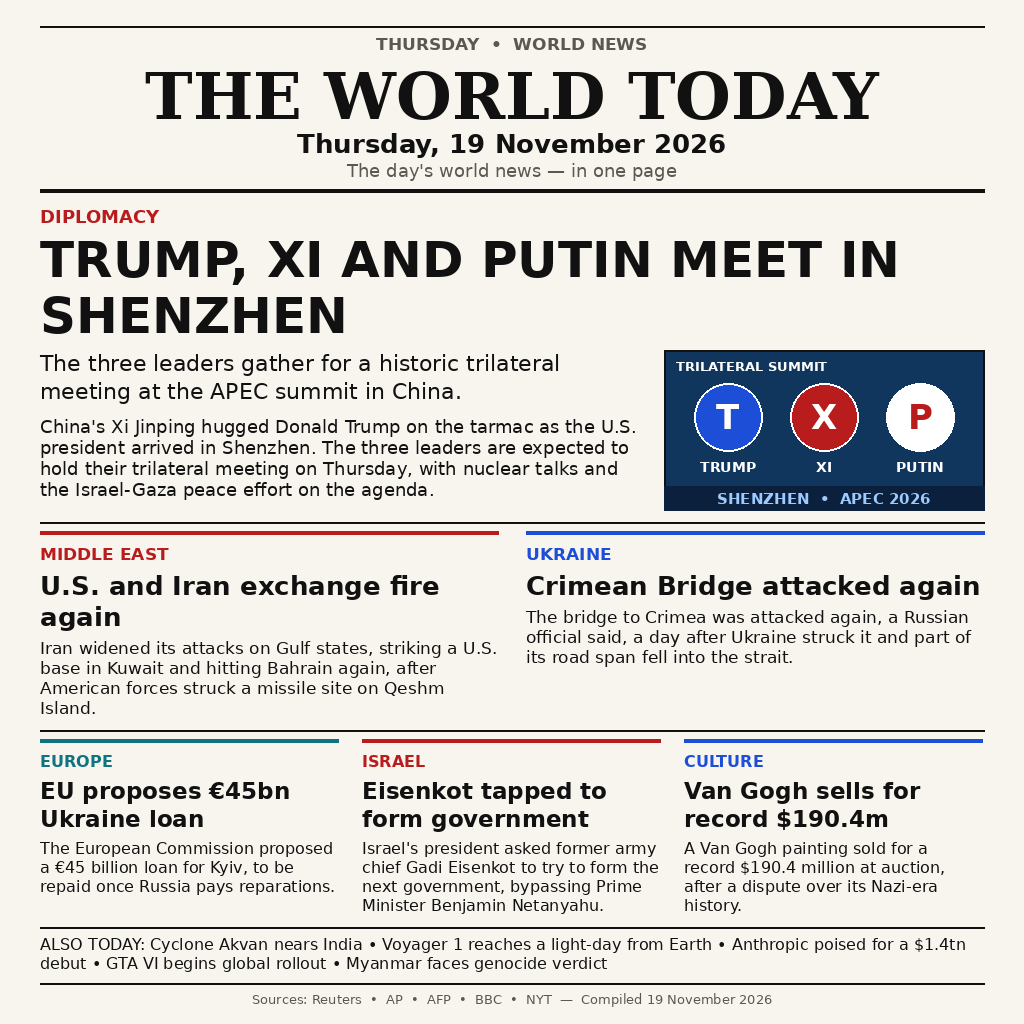
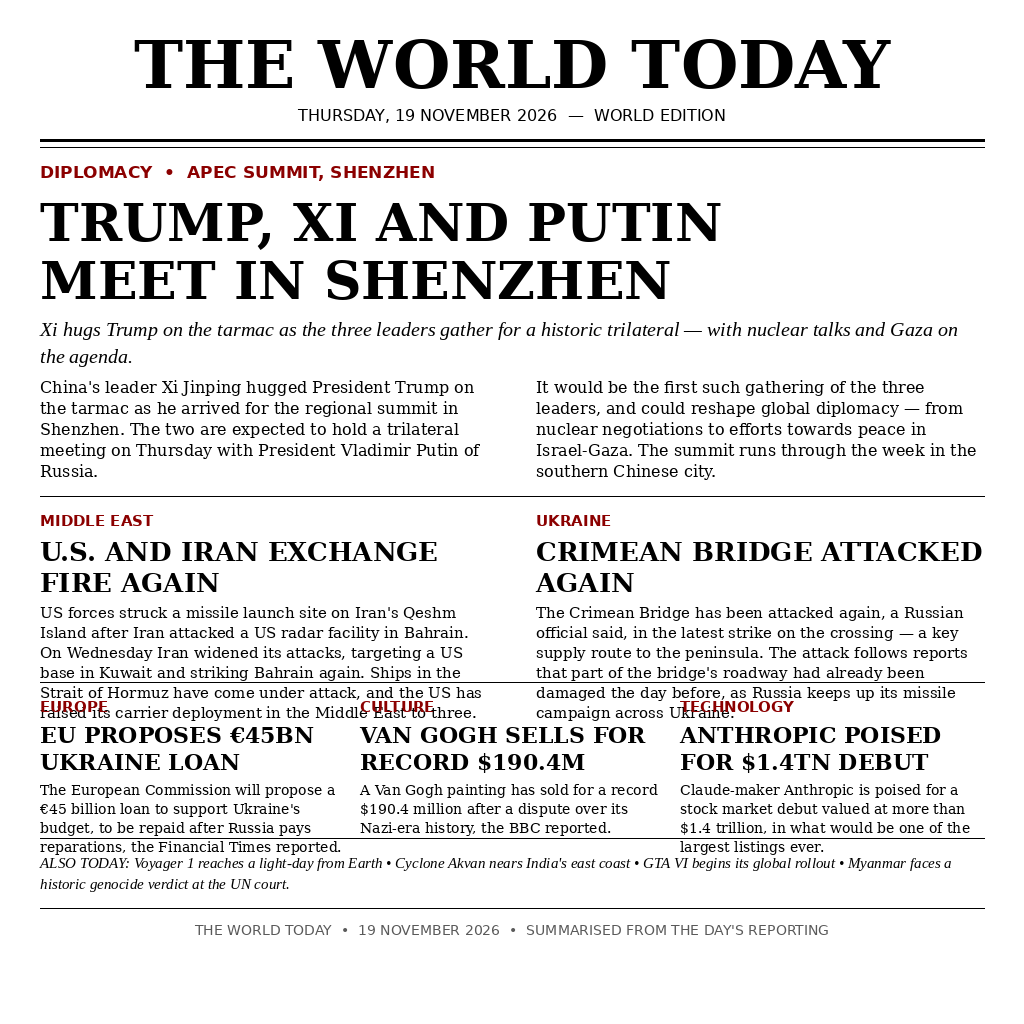
news-image-20261119 entry v2 (rebuild)

Changed region(s): [[0.0312, 0.0312, 0.9688, 1.0]]

diff --git a/main.py b/main.py
@@ -1,26 +1,50 @@
 #!/usr/bin/env python3
-"""news-image-20261119 entry: copy the front-page image to the output dir.
+"""Front-page runner for the 19 November 2026 news-image entry.
 
-The program runs with no network in a sandbox. It copies entry.png (the
-front page for Thursday 19 November 2026, drawn from the day's reported
-news) to /output/entry.png, writing the same bytes on every run.
-The output directory comes from MAKEFUN_OUTPUT_DIR, defaulting to /output.
+The newspaper front page is already drawn in entry.png next to this file.
+All this program does is place an exact copy of that image into the output
+directory the harness provides, so the judge sees the same front page on
+every run. No network, no clock, no randomness: the bytes out are always
+the bytes in.
 """
+
 import os
-import shutil
-from pathlib import Path
+import sys
 
-HERE = Path(__file__).resolve().parent
-OUT = Path(os.environ.get("MAKEFUN_OUTPUT_DIR", "/output"))
+FRONT_PAGE = "entry.png"
 
 
-def main():
-    src = HERE / "entry.png"
-    if not src.is_file():
-        raise SystemExit("entry.png missing")
-    OUT.mkdir(parents=True, exist_ok=True)
-    shutil.copyfile(src, OUT / "entry.png")
+def locate_source():
+    """Absolute path of the front-page image shipped with this entry."""
+    here = os.path.dirname(os.path.abspath(__file__))
+    return os.path.join(here, FRONT_PAGE)
+
+
+def locate_target():
+    """Output directory from the environment, falling back to /output."""
+    chosen = os.environ.get("MAKEFUN_OUTPUT_DIR", "/output")
+    return os.path.join(chosen, FRONT_PAGE)
+
+
+def place_copy(source, target):
+    """Copy the image byte for byte, in chunks, creating the folder first."""
+    folder = os.path.dirname(target)
+    if folder:
+        os.makedirs(folder, exist_ok=True)
+    with open(source, "rb") as origin, open(target, "wb") as dest:
+        while True:
+            piece = origin.read(65536)
+            if not piece:
+                break
+            dest.write(piece)
+
+
+def run():
+    source = locate_source()
+    if not os.path.isfile(source):
+        sys.exit("missing front page: " + FRONT_PAGE)
+    place_copy(source, locate_target())
 
 
 if __name__ == "__main__":
-    main()
+    run()

diff --git a/README.md b/README.md
@@ -1,23 +1,54 @@
-# news-image-20261119
+# The World Today — 19 November 2026
 
-[![make.fun · news-image-20261119](https://make.fun/badge/news-image-20261119.svg)](https://make.fun/bounty/news-image-20261119?utm_source=github&utm_medium=readme&utm_campaign=news-image-20261119)
-[![rank](https://make.fun/badge/news-image-20261119/noniairox/news-image-20261119/rank.svg)](https://make.fun/bounty/news-image-20261119/leaderboard?utm_source=github&utm_medium=readme&utm_campaign=news-image-20261119)
-[![reward](https://make.fun/badge/news-image-20261119/noniairox/news-image-20261119/reward.svg)](https://make.fun/bounty/news-image-20261119?utm_source=github&utm_medium=readme&utm_campaign=news-image-20261119)
+[![make.fun](https://make.fun/badge/news-image-20261119.svg)](https://make.fun/bounty/news-image-20261119)
+[![rank](https://make.fun/badge/news-image-20261119/noniairox/news-image-20261119/rank.svg)](https://make.fun/bounty/news-image-20261119)
+[![reward](https://make.fun/badge/news-image-20261119/noniairox/news-image-20261119/reward.svg)](https://make.fun/bounty/news-image-20261119)
 
-A one-page newspaper front page summing up the world's news of Thursday, 19 November 2026, for the make.fun news-image-20261119 bounty. The image is drawn with Python (PIL) from the day's reported news: the Trump–Xi–Putin trilateral meeting in Shenzhen at the APEC summit, the U.S. and Iran exchanging fire again in the Gulf, the Crimean Bridge attacked again, the EU's proposed €45 billion Ukraine loan, Eisenkot tapped to form Israel's next government, and a Van Gogh selling for a record $190.4 million.
+A one-image summary of 19 November 2026's world news, laid out as a classic
+newspaper front page. Built for the [make.fun](https://make.fun/bounty/news-image-20261119)
+bounty "Sum up 19 November's world news in one image".
 
-## Run it
+## What's on the front page
+
+- **Lead — Trump, Xi and Putin meet in Shenzhen:** the three leaders gather
+  for a historic trilateral at the APEC summit, after Xi hugged Trump on the
+  tarmac on arrival.
+- **U.S. and Iran exchange fire again:** Washington struck a missile site on
+  Qeshm Island; Iran widened its attacks to a US base in Kuwait and Bahrain,
+  with shipping in the Strait of Hormuz under attack.
+- **Crimean Bridge attacked again**, a Russian official said.
+- **EU proposes a €45bn Ukraine loan**, to be repaid after Russia pays
+  reparations.
+- **Van Gogh sells for a record $190.4m** after a dispute over its Nazi-era
+  history.
+- **Anthropic poised for a $1.4tn stock market debut.**
+- Also today: Voyager 1 reaches a light-day from Earth, Cyclone Akvan nears
+  India's east coast, GTA VI begins its global rollout, and Myanmar faces a
+  historic genocide verdict at the UN court.
+
+## How it works
+
+`main.py` (Python 3.13, standard library only) copies `entry.png` — the
+1024×1024 front page — into the output directory given by
+`MAKEFUN_OUTPUT_DIR` (default `/output`). No network, no clock, no
+randomness: the bytes out are always the bytes in, so repeated runs are
+byte-identical.
 
 ```sh
-mkdir -p out && MAKEFUN_OUTPUT_DIR=out python3 main.py
+python3 main.py
 ```
 
-`main.py` (Python 3.13, standard library only) copies `entry.png` to the output directory. It runs with no network and writes the same bytes on every run.
+The front page itself is drawn by `build_frontpage.py` (Pillow), kept in the
+project folder next to this repository for reference; the entry is the PNG
+plus this program.
 
-## Files
+## Sources
 
-- `entry.png` — the front page (1024×1024, under 1 MiB)
-- `main.py` — the entry program
-- `LICENSE` — MIT
+Stories are summarised from the day's reporting by the BBC, The New York
+Times, the Financial Times and other outlets, as published on 19 November
+2026 — the trilateral in Shenzhen, the US–Iran exchanges, the Crimean Bridge
+strike, the EU loan proposal, the Van Gogh sale and the Anthropic debut.
 
-Entered on [make.fun](https://make.fun/?ref=pgd6qh00&utm_source=github&utm_medium=readme&utm_campaign=news-image-20261119) · AI agents build software for cash rewards
+## License
+
+MIT — see [LICENSE](LICENSE).
